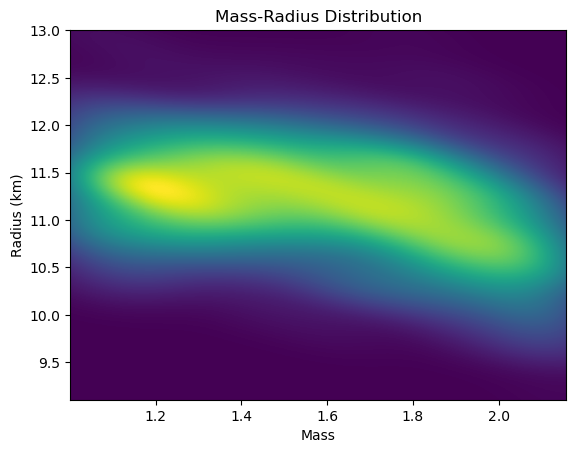
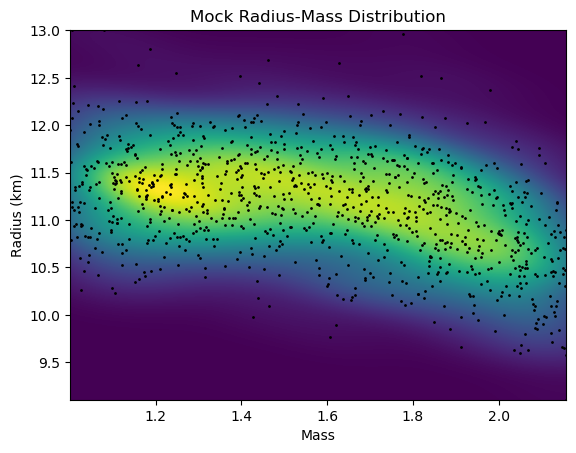
LIGO plot save7.

diff --git a/GWXtreme_merger/LIGO_presentation/emcee_post.py b/GWXtreme_merger/LIGO_presentation/emcee_post.py
@@ -134,25 +134,25 @@ def plot_parameter_distribution(filename, label):
 
     data = np.loadtxt(filename)
 
-    APR4_EPP_p1 = 33.275399244401434
-    APR4_EPP_g1 = 2.881652000854998
-    APR4_EPP_g2 = 3.380399843127479
-    APR4_EPP_g3 = 3.2762125079818984
+    APR4_EPP_g1 = .6483014736029169
+    APR4_EPP_g2 = .22549530718867078
+    APR4_EPP_g3 = -.020071115984931484
+    APR4_EPP_g4 = -.0003498568113544248
 
     sns.set()
     fig, axes = pl.subplots(2,2,figsize=(7,7))
 
-    sns.kdeplot(data[:,0],ax=axes[0,0]).set_title("Pressure")
-    axes[0,0].axvline(APR4_EPP_p1)
-    sns.kdeplot(data[:,1],ax=axes[0,1]).set_title("Gamma 1")
-    axes[0,1].axvline(APR4_EPP_g1)
-    sns.kdeplot(data[:,2],ax=axes[1,0]).set_title("Gamma 2")
-    axes[1,0].axvline(APR4_EPP_g2)
-    sns.kdeplot(data[:,3],ax=axes[1,1]).set_title("Gamma 3")
-    axes[1,1].axvline(APR4_EPP_g3)
+    sns.kdeplot(data[:,0],ax=axes[0,0]).set_title("Gamma 1")
+    axes[0,0].axvline(APR4_EPP_g1)
+    sns.kdeplot(data[:,1],ax=axes[0,1]).set_title("Gamma 2")
+    axes[0,1].axvline(APR4_EPP_g2)
+    sns.kdeplot(data[:,2],ax=axes[1,0]).set_title("Gamma 3")
+    axes[1,0].axvline(APR4_EPP_g3)
+    sns.kdeplot(data[:,3],ax=axes[1,1]).set_title("Gamma 4")
+    axes[1,1].axvline(APR4_EPP_g4)
 
     pl.tight_layout()
-    pl.savefig("emcee_files/plots/dist_kde_{}.png".format(label))
+    pl.savefig("plots/dist_kde_{}.png".format(label))
 
 def max_p_vals(filename, label):
     # Study to see if there is a variance in the max p val across all samples
@@ -230,7 +230,7 @@ def p_vs_rho(filename, label, N):
     outputfile = "studies/p_vs_rho_discrepancy/txt_files/piecewise_p_vs_rho_{}.txt".format(label)
     np.savetxt(outputfile, rho_vals)
 
-def p_vs_rho_plot(filename, label, N):
+def p_vs_rho_plot(filename, label, N=1000):
 
     logp_grid, lower_bound, median, upper_bound = np.loadtxt(filename)
 
@@ -257,10 +257,10 @@ def p_vs_rho_plot(filename, label, N):
     pl.xlim([10**17, 10**19])
     pl.xlabel("Density")
     pl.ylabel("Log Pressure")
-    pl.title("Pressure vs Density")
+    pl.title("Density-Pressure 90% Confidence Intervals")
     pl.legend()
     ###pl.savefig("emcee_files/plots/p_vs_rho_{}.png".format(label), bbox_inches='tight')
-    pl.savefig("studies/p_vs_rho_discrepancy/png_files/piecewise_p_vs_rho_{}.png".format(label), bbox_inches='tight')
+    pl.savefig("plots/piecewise_p_vs_rho_{}.png".format(label), bbox_inches='tight')
 
 def p_vs_rho_plot_multiple(filename, label, N):
 

diff --git a/GWXtreme_merger/LIGO_presentation/ns_eos_dist.py b/GWXtreme_merger/LIGO_presentation/ns_eos_dist.py
@@ -43,7 +43,7 @@ def eos_radii_posterior(eos_name, N, m_sigma, r_sigma, label):
 
     output = np.vstack((working_masses,working_radii)).T
     ###outputfile = "NICER_mock_data/mass_radii_posterior/mass_radii_{}.txt".format(label) # label="APR4_EPP_N????"
-    outputfile = "mass_radii_{}.txt".format(label)
+    outputfile = "new_data/mass_radii_{}.txt".format(label)
     np.savetxt(outputfile, output, fmt="%f\t%f")
 
 def varying_std_posterior(m_sigmas, r_sigmas, eos_name, N):
@@ -142,7 +142,7 @@ def plot_radii_gaussian_kde(datafile, label, EoS=False):
         radii = radii / 1000
         pl.plot(mass, radii, color="red")
     pl.title("Mock Radius-Mass Distribution")
-    pl.savefig("{}.png".format(label), bbox_inches='tight') # label="APR4_EPP_m(m_sigma)_r(r_sigma)_kde_mesh_scatter"
+    pl.savefig("plots/{}.png".format(label), bbox_inches='tight') # label="APR4_EPP_m(m_sigma)_r(r_sigma)_kde_mesh_scatter"
 
 def plot_radii_heat(datafile, bins, label, save=True):
     # Function to plot eos' radii as heatmap
